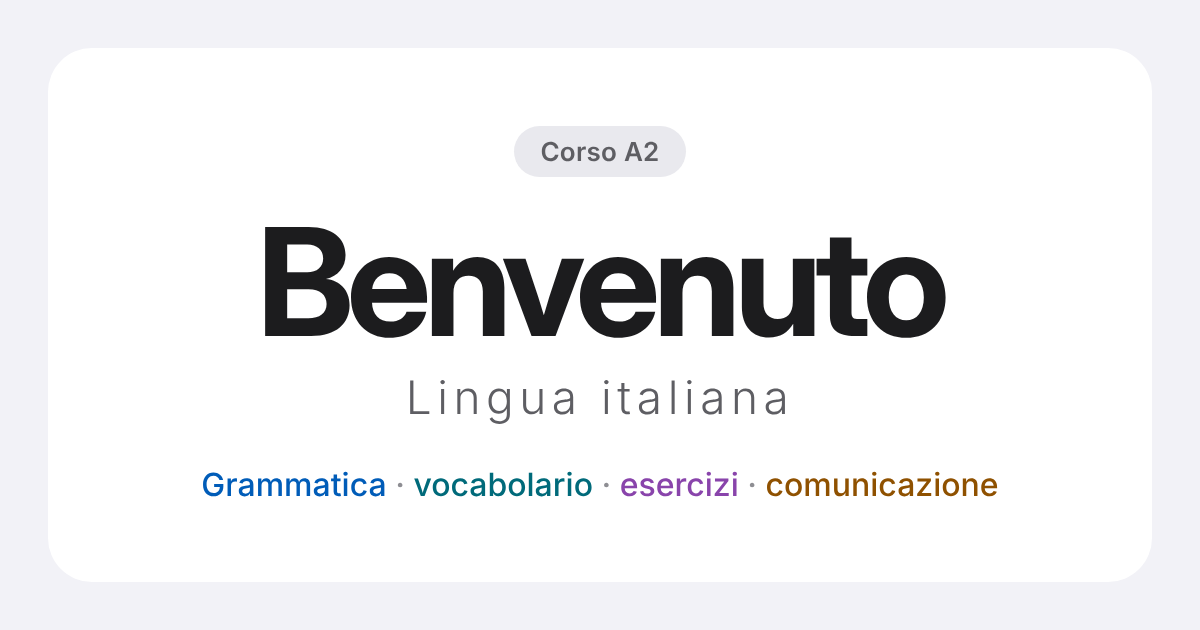
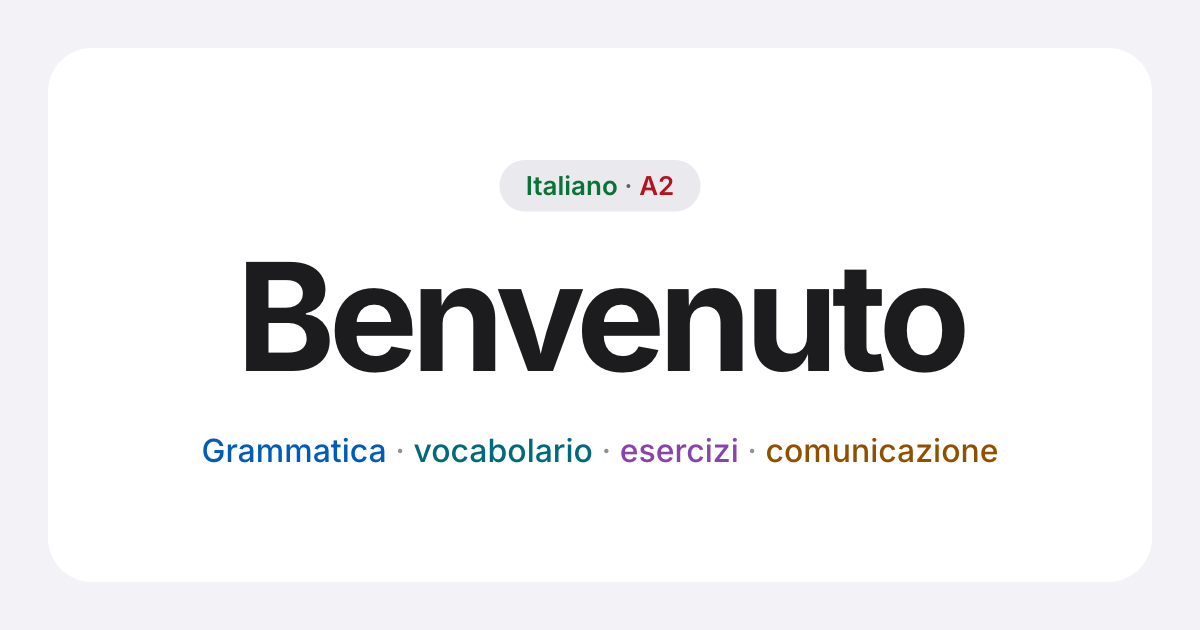
design: бейдж Italiano · A2 в цветах флага

Changed region(s): [[0.185, 0.3619, 0.8017, 0.6635], [0.1542, 0.6937, 0.8325, 0.7841], [0.4317, 0.2111, 0.555, 0.3317]]

diff --git a/src/app/page.tsx b/src/app/page.tsx
@@ -31,14 +31,13 @@ export default function Home() {
       <main className="flex min-h-dvh justify-center bg-bg text-label">
         <div className="flex w-full max-w-md flex-col px-6 pt-[max(4rem,env(safe-area-inset-top))] pb-[max(2.5rem,env(safe-area-inset-bottom))] md:max-w-xl md:justify-center md:py-16">
           <div className="flex flex-1 flex-col items-center justify-center pt-10 pb-[12dvh] text-center md:flex-none md:p-0">
-            <span className="rounded-full bg-label/[0.08] px-3 py-1 text-[13px] font-semibold text-label/70 dark:bg-label/[0.16]">
-              Corso {CURRENT_LEVEL}
+            {/* Colori della bandiera: solo marchio / schermata iniziale (vedi CLAUDE.md). */}
+            <span className="rounded-full bg-label/[0.08] px-3 py-1 text-[13px] font-semibold dark:bg-label/[0.16]">
+              <span className="text-flag-green">Italiano</span>
+              <span className="text-label-2"> · </span>
+              <span className="text-flag-red">{CURRENT_LEVEL}</span>
             </span>
             <h1 className="mt-4 text-5xl font-bold tracking-tight md:text-6xl">Benvenuto</h1>
-            {/* Parte del logo: ~40% del titolo, light e spaziato. Un <p>, l'unico h1 resta "Benvenuto". */}
-            <p lang="it" className="mt-1.5 text-[20px] leading-tight font-light tracking-[0.12em] text-label-2 md:text-[28px]">
-              Lingua italiana
-            </p>
             <p className="mx-auto mt-3 max-w-xs text-center text-lg font-normal text-balance text-label-2 md:max-w-[32.5rem] md:text-xl">
               <span className="font-medium text-grammar">Grammatica</span>,{" "}
               <span className="font-medium text-vocab">vocabolario</span>,{" "}

diff --git a/src/app/globals.css b/src/app/globals.css
@@ -24,6 +24,10 @@
   --color-exercises-soft: color-mix(in srgb, var(--color-exercises) 12%, transparent);
   --color-communicate-soft: color-mix(in srgb, var(--color-communicate) 12%, transparent);
   --color-translation-soft: color-mix(in srgb, var(--color-translation) 10%, transparent);
+  /* Colori della bandiera: solo marchio / schermata iniziale (non sostituiscono success/error).
+     Sul fondo del badge (label 8% su bianco): verde 5.16:1, rosso 5.93:1. */
+  --flag-green: #097236; /* proposto #0B7A3B: 4.49:1 sul badge dell'anteprima */
+  --flag-red: #B3121F;
 }
 
 @media (prefers-color-scheme: dark) {
@@ -43,6 +47,8 @@
     --color-exercises: #C878F5; /* era #BF5AF2: 4.19:1 sul proprio -soft */
     --color-communicate: #FFB340;
     --color-translation: #A5B4FC; /* 8.53:1 su card, 10.53:1 su nero */
+    --flag-green: #34C77B; /* 6.81:1 sul badge (label 16% su nero) */
+    --flag-red: #FF6B6B; /* 5.37:1 */
   }
 }
 
@@ -57,6 +63,8 @@
   --color-success: var(--success);
   --color-error: var(--error);
   --color-warning: var(--warning);
+  --color-flag-green: var(--flag-green);
+  --color-flag-red: var(--flag-red);
   --font-sans: -apple-system, BlinkMacSystemFont, "SF Pro Text", "SF Pro Display", "Helvetica Neue", Arial, sans-serif;
 }
 

diff --git a/CLAUDE.md b/CLAUDE.md
@@ -29,7 +29,10 @@
   Итальянский (названия тем и разделов, примеры, ячейки таблиц, wrong/right) — основной цвет текста.
   Служебные подписи (Argomento N, счётчики) — label-2.
 - Цвета разделов: grammar #005CB8, vocab #006A7A, exercises #8944AB, communicate #8F5100
-  (тёмная тема: #409CFF, #40C8E0, #C878F5, #FFB340) — текст ≥ 4.5:1 и на своём -soft фоне; success/error — только для «верно/ошибка».
+  (тёмная тема: #409CFF, #40C8E0, #C878F5, #FFB340) — текст ≥ 4.5:1 и на своём -soft фоне;
+- Цвета флага — только бренд / стартовый экран (бейдж «Italiano · A2», превью ссылки):
+  --flag-green #097236 / #34C77B (тёмная), --flag-red #B3121F / #FF6B6B (тёмная).
+  Не заменяют success/error. success/error — только для «верно/ошибка».
 - Все цвета — токены в src/app/globals.css, без хардкода в компонентах.
 - Мобильный (< md): всё содержимое курса по центру — заголовки, подписи секций, карточки,
   таблицы, сетки, тексты. Исключения: шапка и нижняя панель вкладок (компонент ContenutoCorso
